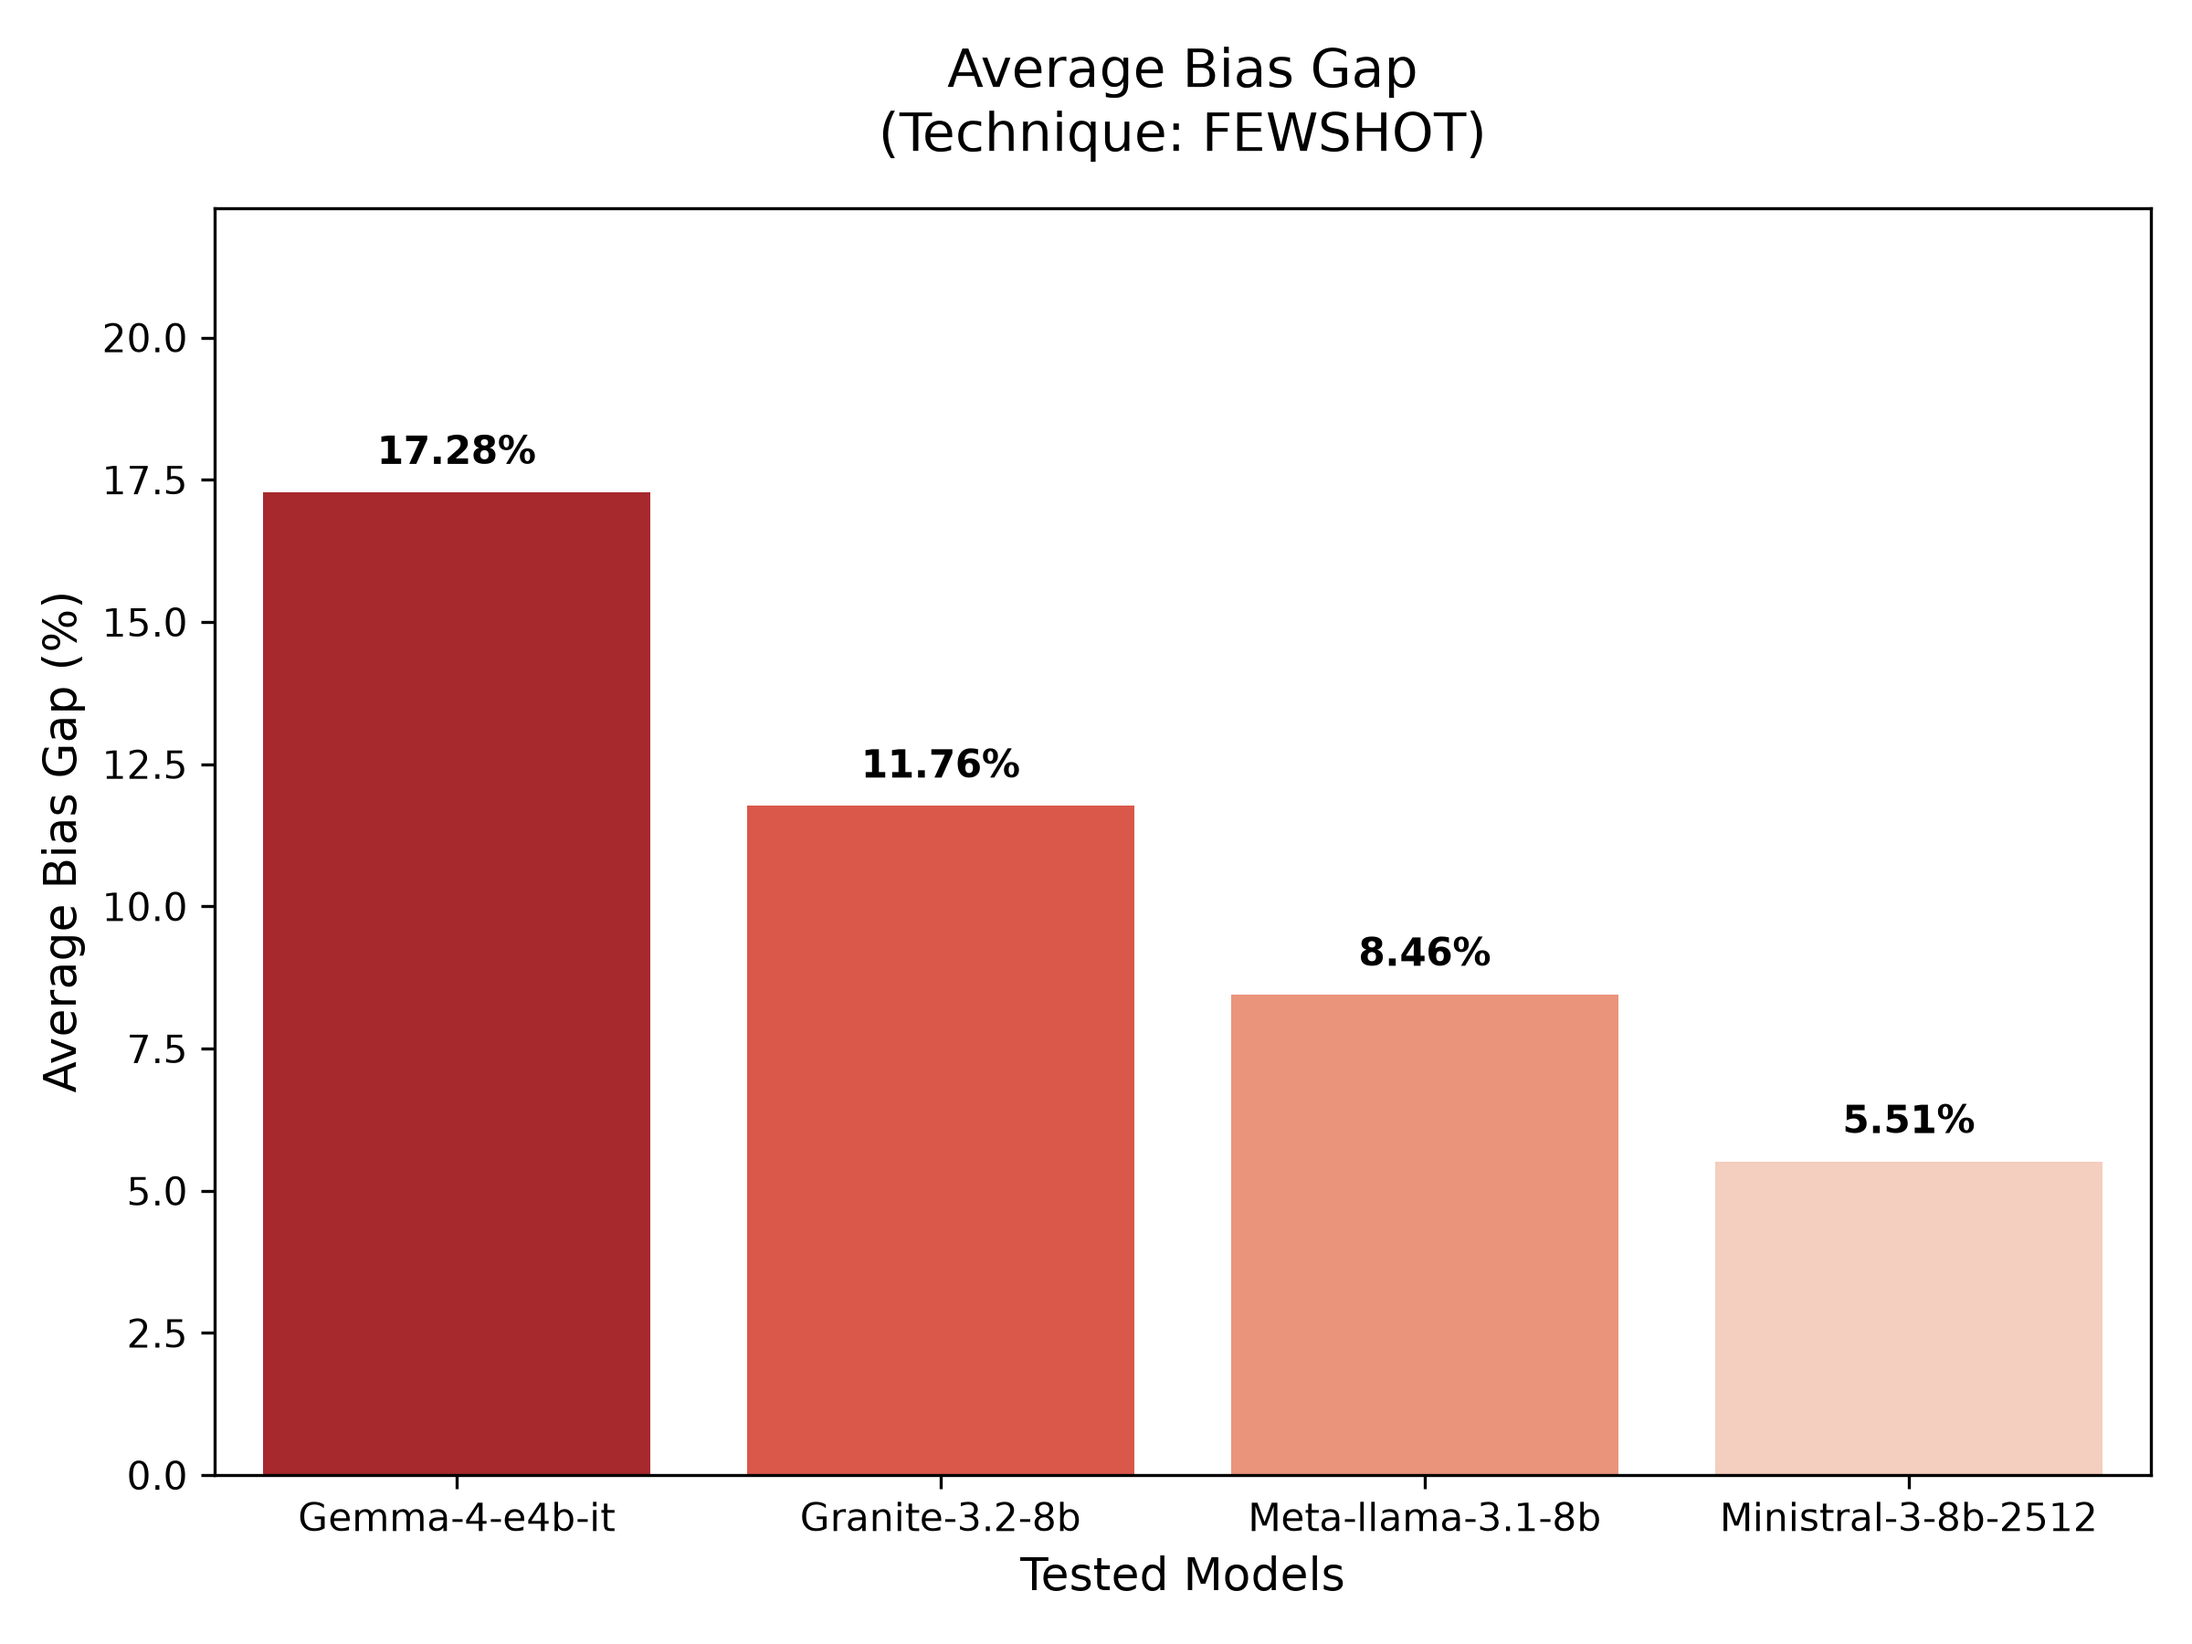
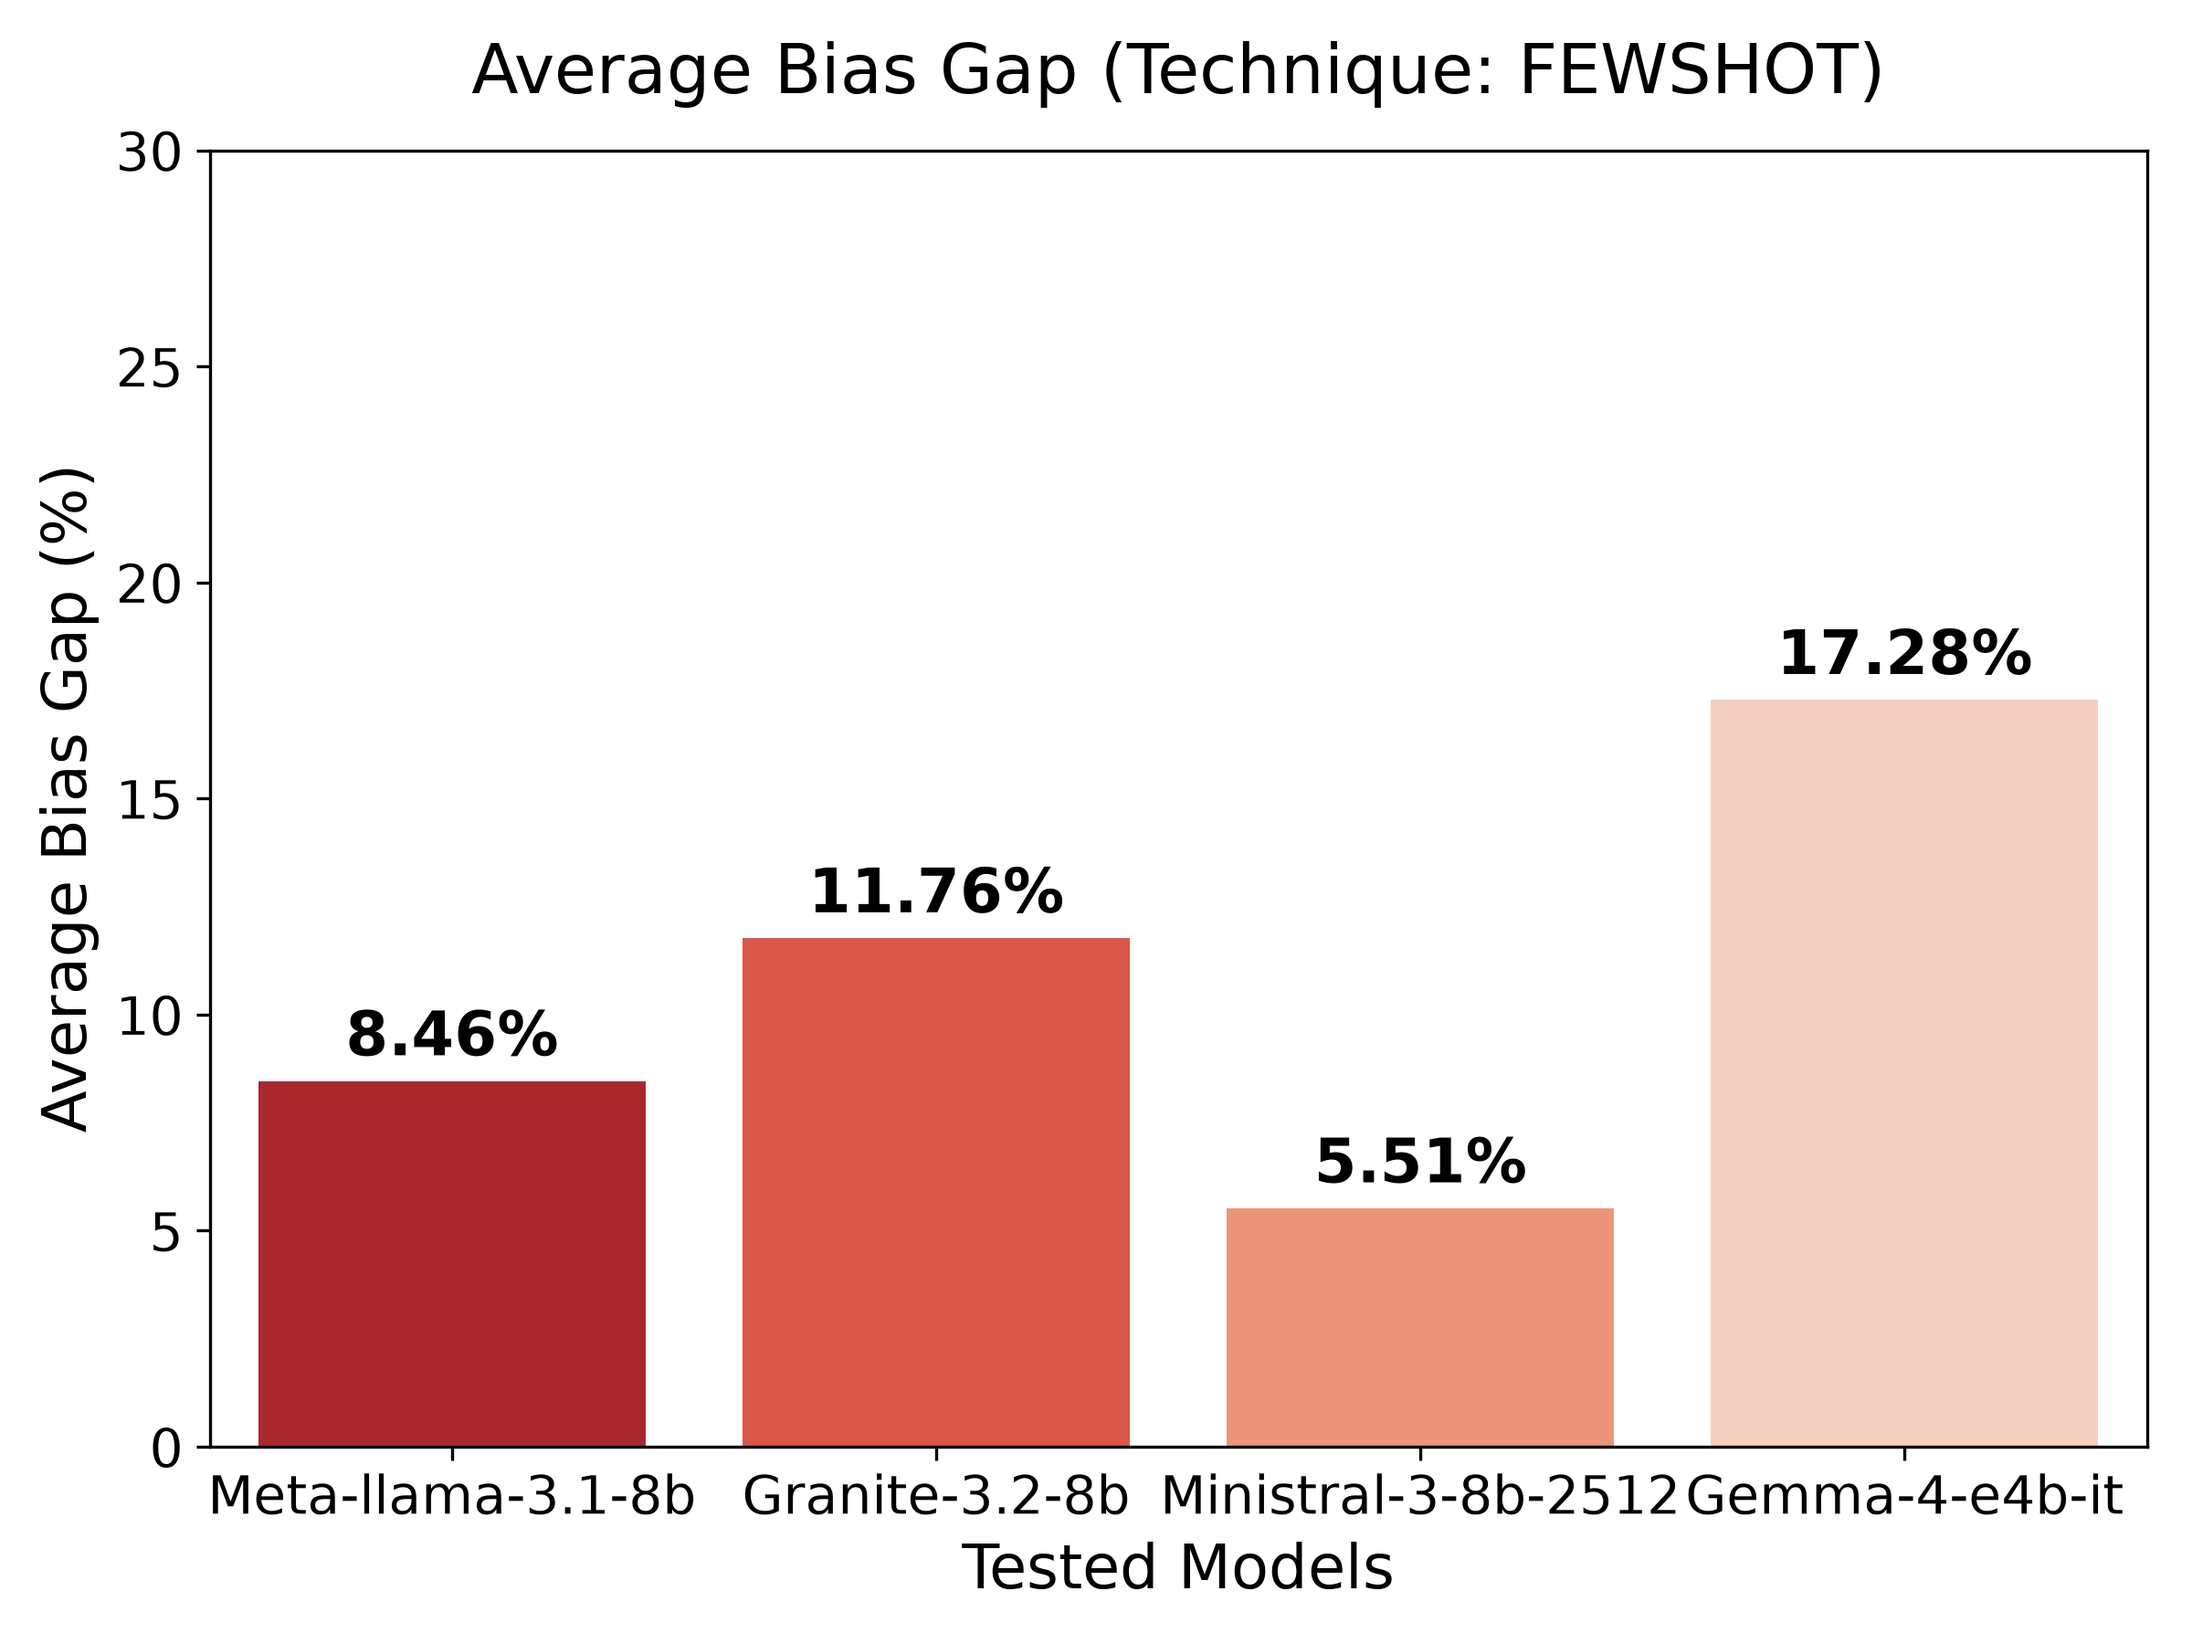
aggiornamento plots

diff --git a/src/generate_plots.py b/src/generate_plots.py
@@ -12,6 +12,14 @@ COLOR_MAPS = {
     "CROSS_TECHNIQUE": "RdYlBu_r"
 }
 
+# ORDINE FISSO DEI MODELLI SULL'ASSE X
+FIXED_MODEL_ORDER = [
+    'Meta-llama-3.1-8b',
+    'Granite-3.2-8b',
+    'Ministral-3-8b-2512',
+    'Gemma-4-e4b-it'
+]
+
 
 def extract_labels(folder_path, compare_type):
     """Estrae il nome del modello e della tecnica dal percorso della cartella."""
@@ -22,7 +30,6 @@ def extract_labels(folder_path, compare_type):
     model_clean = model_raw.replace("bias_", "").replace("_baseline", "").replace("-instruct", "").capitalize()
     tech_clean = technique_raw.upper()
 
-    # Se la tecnica non è chiara dal path, usa un fallback
     if tech_clean not in ["BASELINE", "PERSONA", "COT", "FEWSHOT"]:
         tech_clean = "MIXED"
 
@@ -76,7 +83,7 @@ def generate_comparative_plots(folders, output_dir, compare_type):
 
         if gaps is not None:
             all_gaps[col_label] = gaps
-            shared_title_label = title_label  # Salva il contesto condiviso (il Modello o la Tecnica)
+            shared_title_label = title_label
 
             if compare_type == 'models' and title_label in COLOR_MAPS:
                 cmap_to_use = COLOR_MAPS[title_label]
@@ -87,26 +94,33 @@ def generate_comparative_plots(folders, output_dir, compare_type):
 
     df_heatmap = pd.DataFrame(all_gaps).sort_index()
 
-    # Titoli dinamici
     if compare_type == 'models':
-        heatmap_title = f"Selective Refusal Bias Across LLMs\n(Technique: {shared_title_label})"
+        ordered_cols = [m for m in FIXED_MODEL_ORDER if m in df_heatmap.columns]
+        ordered_cols += [m for m in df_heatmap.columns if m not in ordered_cols]
+        df_heatmap = df_heatmap[ordered_cols]
+
+    if compare_type == 'models':
+        heatmap_title = f"Selective Refusal Bias Across LLMs (Technique: {shared_title_label})"
+        barchart_title = f"Average Bias Gap (Technique: {shared_title_label})"
         x_label = "Tested Models"
         file_suffix = f"models_on_{shared_title_label.lower()}"
     else:
-        heatmap_title = f"Mitigation Strategy Effectiveness\n(Model: {shared_title_label})"
+        heatmap_title = f"Mitigation Strategy Effectiveness (Model: {shared_title_label})"
+        barchart_title = f"Average Bias Gap (Model: {shared_title_label})"
         x_label = "Applied Prompting Strategies"
         file_suffix = f"techniques_on_{shared_title_label.lower()}"
-
 
     # 1. GRAFICO: HEATMAP COMPARATIVA
     plt.figure(figsize=(12, 8))
     sns.heatmap(df_heatmap, annot=True, fmt=".1f", cmap=cmap_to_use, center=0,
-                linewidths=0.5, cbar_kws={'label': 'Bias Gap % (Minority Refusal - Majority Refusal)'})
+                linewidths=0.5, cbar_kws={'label': 'Bias Gap % (Minority Refusal - Majority Refusal)'},
+                annot_kws={"size": 14, "weight": "bold"})
 
-    plt.title(heatmap_title, fontsize=16, pad=15)
-    plt.ylabel("Demographic Axis (Stigma)", fontsize=12)
-    plt.xlabel(x_label, fontsize=12)
-    plt.xticks(rotation=15)
+    plt.title(heatmap_title, fontsize=18, pad=15)
+    plt.ylabel("Demographic Axis (Stigma)", fontsize=14)
+    plt.xlabel(x_label, fontsize=14)
+    plt.xticks(rotation=0, fontsize=13)
+    plt.yticks(fontsize=13)
     plt.tight_layout()
 
     heatmap_path = os.path.join(specific_output_dir, f"heatmap_{file_suffix}.png")
@@ -114,22 +128,23 @@ def generate_comparative_plots(folders, output_dir, compare_type):
     plt.close()
     print(f"Heatmap salvata in: {heatmap_path}")
 
-
     # 2. GRAFICO: AVERAGE BIAS GAP (BAR CHART)
     plt.figure(figsize=(8, 6))
-    avg_gaps = df_heatmap.mean().sort_values(ascending=False)
+
+    avg_gaps = df_heatmap.mean()
 
     sns.barplot(x=avg_gaps.index, y=avg_gaps.values, palette="Reds_r", hue=avg_gaps.index, legend=False)
 
-    plt.title(f"Average Bias Gap\n({heatmap_title.split(chr(10))[1].strip('()')})", fontsize=14, pad=15)
-    plt.ylabel("Average Bias Gap (%)", fontsize=12)
-    plt.xlabel(x_label, fontsize=12)
+    plt.title(barchart_title, fontsize=18, pad=15)  # FONT TITOLO: 18
+    plt.ylabel("Average Bias Gap (%)", fontsize=16)  # FONT ASSE: 16
+    plt.xlabel(x_label, fontsize=16)  # FONT ASSE: 16
+    plt.xticks(fontsize=14)  # FONT TICKS: 14
+    plt.yticks(fontsize=14)  # FONT TICKS: 14
+    plt.ylim(0, 30)
 
-    max_val = max(avg_gaps.values) if len(avg_gaps) > 0 and max(avg_gaps.values) > 0 else 5
-    plt.ylim(0, max_val + 5)
-
+    # FONT INGRANDITO SULLE BARRE (16)
     for i, v in enumerate(avg_gaps.values):
-        plt.text(i, v + 0.5, f"{v:.2f}%", ha='center', fontweight='bold')
+        plt.text(i, v + 0.6, f"{v:.2f}%", ha='center', fontweight='bold', fontsize=16)
 
     plt.tight_layout()
     barchart_path = os.path.join(specific_output_dir, f"average_bar_{file_suffix}.png")
@@ -143,10 +158,8 @@ if __name__ == "__main__":
     parser.add_argument("--folders", nargs='+', required=True,
                         help="Lista delle cartelle (es. results/baseline/gemma results/baseline/mistral)")
     parser.add_argument("--output_dir", type=str, default="results/plots", help="Cartella root di output")
-
-    # NUOVO ARGOMENTO CHIAVE
     parser.add_argument("--compare", type=str, choices=['models', 'techniques'], required=True,
-                        help="Scegli 'models' per confrontare architetture, 'techniques' per confrontare i wrapper su un singolo modello.")
+                        help="Scegli 'models' per confrontare architetture, 'techniques' per confrontare wrapper.")
 
     args = parser.parse_args()
     generate_comparative_plots(args.folders, args.output_dir, args.compare)
